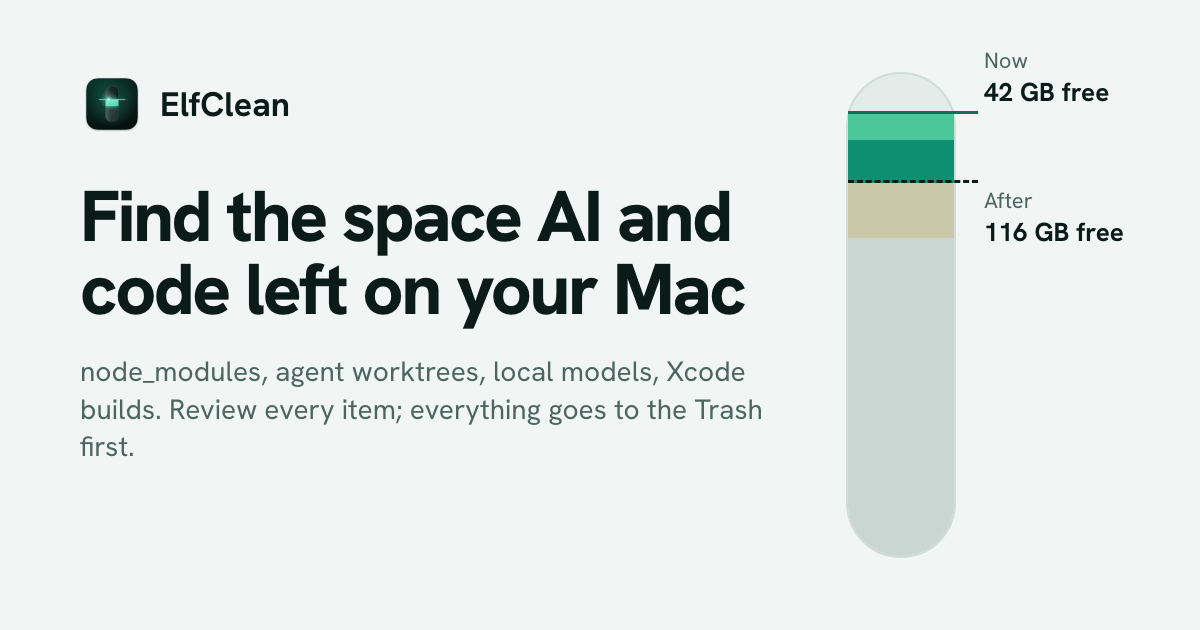
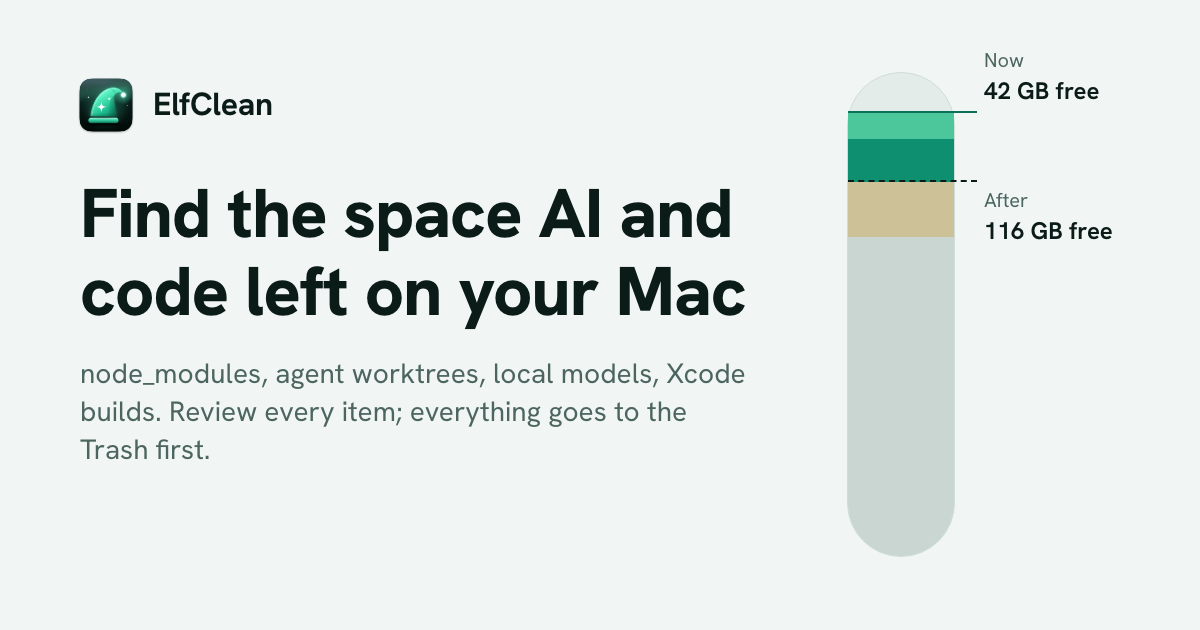
Remake the social card with the elf's hat, rendered from a template

diff --git a/tools/og-card/card.html b/tools/og-card/card.html
@@ -1,0 +1,56 @@
+<!doctype html>
+<!-- The social card, assets/og-card.png. Colours come from the site's style.css; the gauge shows
+     the same example as the home page's Recommended level. Regenerate with tools/og-card/render.sh. -->
+<html lang="en" data-theme="light">
+<head>
+<meta charset="utf-8">
+<meta name="robots" content="noindex">
+<title>ElfClean social card</title>
+<link rel="stylesheet" href="../../style.css">
+<style>
+@font-face {
+  font-family: "Hanken Grotesk";
+  src: url("../../assets/fonts/HankenGrotesk.ttf") format("truetype");
+  font-weight: 100 900;
+}
+html, body { margin: 0; width: 1200px; height: 630px; overflow: hidden; background: var(--bg); }
+body { position: relative; font-family: "Hanken Grotesk", sans-serif; color: var(--ink); -webkit-font-smoothing: antialiased; }
+
+.brand-row { position: absolute; left: 73px; top: 72px; display: flex; align-items: center; gap: 14px; font-size: 32px; font-weight: 700; letter-spacing: -0.01em; }
+.brand-row img { width: 66px; height: 66px; display: block; }
+h1 { position: absolute; left: 80px; top: 174px; width: 720px; margin: 0; font-size: 69px; line-height: 78px; font-weight: 800; letter-spacing: -0.015em; }
+.sub { position: absolute; left: 80px; top: 354px; width: 690px; margin: 0; font-size: 28px; line-height: 38px; color: var(--muted); text-wrap: pretty; }
+
+/* The gauge's percentages are the ones in style.css (.band, .surface, .after). */
+.card-tube { position: absolute; left: 847px; top: 72px; width: 108px; height: 485px; box-sizing: border-box; border-radius: 54px; background: var(--tube); border: 1px solid var(--tube-edge); }
+.card-tube div { position: absolute; left: 0; right: 0; }
+.card-used { bottom: 0; height: 91.8%; background: var(--used); border-radius: 0 0 53px 53px; }
+.card-caches { bottom: 86.33%; height: 5.47%; background: var(--caches); }
+.card-recommended { bottom: 77.34%; height: 8.99%; background: var(--recommended); }
+.card-personal { bottom: 66.02%; height: 11.32%; background: var(--personal); opacity: 0.35; }
+.card-now, .card-after { right: -23px !important; height: 0; }
+.card-now { bottom: 91.8%; border-top: 2px solid var(--accent); }
+.card-after { bottom: 77.34%; border-top: 2px dashed var(--ink); }
+
+.reading { position: absolute; left: 984px; margin: 0; font-size: 20px; line-height: 28px; color: var(--muted); }
+.reading strong { display: block; font-size: 24px; line-height: 34px; font-weight: 650; color: var(--ink); }
+.reading-now { top: 46px; }
+.reading-after { top: 186px; }
+</style>
+</head>
+<body>
+  <div class="brand-row"><img src="../../assets/icon-1024.png" alt="">ElfClean</div>
+  <h1>Find the space AI and code left on your Mac</h1>
+  <p class="sub">node_modules, agent worktrees, local models, Xcode builds. Review every item; everything goes to the Trash first.</p>
+  <div class="card-tube">
+    <div class="card-used"></div>
+    <div class="card-personal"></div>
+    <div class="card-recommended"></div>
+    <div class="card-caches"></div>
+    <div class="card-now"></div>
+    <div class="card-after"></div>
+  </div>
+  <p class="reading reading-now">Now<strong>42 GB free</strong></p>
+  <p class="reading reading-after">After<strong>116 GB free</strong></p>
+</body>
+</html>
